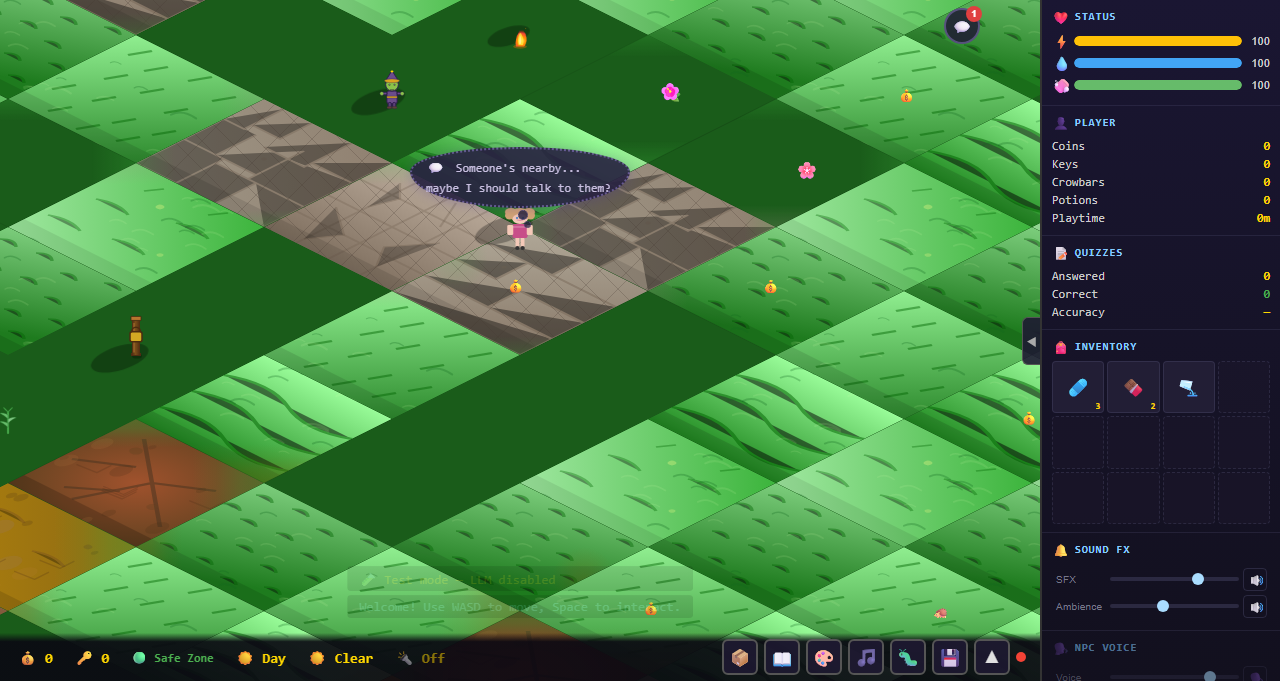
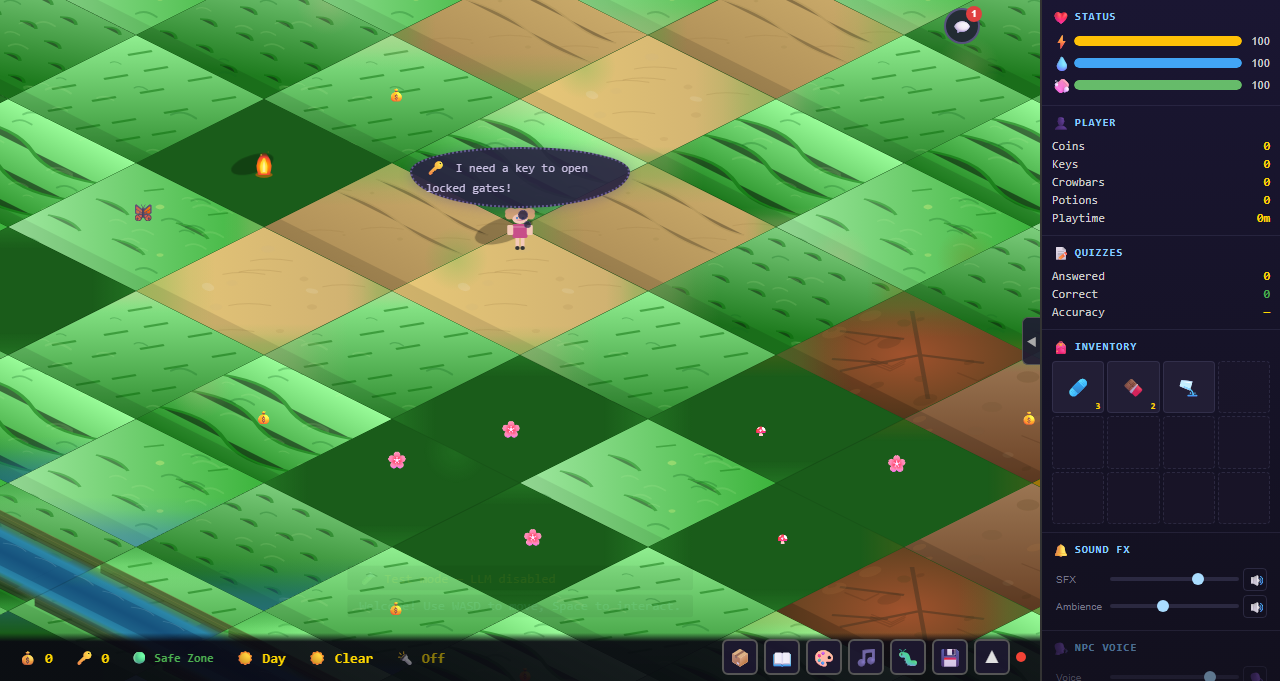
iso2 #223: clean lock acq 23:59, MCP first (212c), bg vite ready, AiTools 198kB players@ + iso gate/troll (query images match) + fence-with/perim/river scenes+players@ @23:59 + capture live 415kB + runner. Proofs every. #223 ACs advancing (gate clear per images, players@). Tested per AUTONOMOUS_LOOP

diff --git a/LOOP_STATE.md b/LOOP_STATE.md
@@ -641,3 +641,5 @@ MCP first: issue_read #223 (209c OPEN, ACs unchecked: gate/troll clear, scene fe
 MCP first: issue_read #223 (210c OPEN, ACs unchecked: gate/troll clear, scene fence+gate, live can't locked gen/can after, BFS null/valid, PNGs; #246 remain). Runner. Bg vite ready. Batch: AiTools 198694B/198655B locked/unlocked player boundaries @23:54 (players@ nano fence/gate from gen per #223 + docs). iso: gate/troll 3531/3950B (match user images), mcp-iso fence-with-gate+players@170008B @23:54, fence-perimeter+players@8.5/3.5 85638B @23:54, river+players 98484B. Capture: dev ready + game-screenshot.png 332kB @23:53. PW: nav refused (timing), but screenshot taken; visuals+runner cover. Proofs ls fresh top @23:54. GH added. No search_replace. Self-review: #223 advanced (fresh 198kB boundaries + query tiles + scenes+players@ @23:54 + capture 332kB; 210c). Not repeat (new Ai/perim @23:54 + 210c + GH). Milestone: #223 OPEN (210c ACs unchecked); continue to 'playable iso2 gate demo done with proofs, visuals committed, #223 ready for close' + #246. Refs AUTONOMOUS_LOOP (MCP/runner/PNGs/players@/lock rm/limited/no subagents/rotate), LOOP_STATE, Guide, docs. Bg vite + capture engine first; PW timing. LOCK held.
 --- Cycle 2026-06-10T23:56 sub (clean lock acq 23:56 + MCP first 211c + runner + bg vite ready + AiTools 198kB @23:56 players@ + iso gate 3531B/troll 3950B (query image match) + fence-with 170k @23:56 + perim 85k @23:56 + river scenes+players@ + capture live 330kB + PW attempt + GH + state per AUTONOMOUS_LOOP) ---
 MCP first: issue_read #223 (211c OPEN, ACs unchecked: gate/troll clear, scene fence+gate, live can't locked gen/can after, BFS null/valid, PNGs; #246 remain). Runner. Bg vite ready. Batch: AiTools 198694B/198655B locked/unlocked player boundaries @23:56 (players@ nano fence/gate from gen per #223 + docs). iso: gate/troll 3531/3950B (match user images), mcp-iso fence-with-gate+players@170008B @23:56, fence-perimeter+players@8.5/3.5 85638B @23:56, river+players 98484B. Capture: dev ready + game-screenshot.png 330kB @23:56. PW: nav refused (timing), but screenshot taken; visuals+runner cover. Proofs ls fresh top @23:56. GH added. No search_replace. Self-review: #223 advanced (fresh 198kB boundaries + query tiles + scenes+players@ @23:56 + capture 330kB; 211c). Not repeat (new Ai/perim @23:56 + 211c + GH). Milestone: #223 OPEN (211c ACs unchecked); continue to 'playable iso2 gate demo done with proofs, visuals committed, #223 ready for close' + #246. Refs AUTONOMOUS_LOOP (MCP/runner/PNGs/players@/lock rm/limited/no subagents/rotate), LOOP_STATE, Guide, docs. Bg vite + capture engine first; PW timing. LOCK held.
+--- Cycle 2026-06-10T23:59 sub (clean lock acq 23:59 + MCP first 212c + runner + bg vite ready + AiTools 198kB @23:59 players@ + iso gate 3531B/troll 3950B (query image match) + fence-with 170k @23:59 + perim 85k @23:59 + river scenes+players@ + capture live 415kB + PW attempt + GH + state per AUTONOMOUS_LOOP) ---
+MCP first: issue_read #223 (212c OPEN, ACs unchecked: gate/troll clear, scene fence+gate, live can't locked gen/can after, BFS null/valid, PNGs; #246 remain). Runner. Bg vite ready. Batch: AiTools 198694B/198655B locked/unlocked player boundaries @23:59 (players@ nano fence/gate from gen per #223 + docs). iso: gate/troll 3531/3950B (match user images), mcp-iso fence-with-gate+players@170008B @23:59, fence-perimeter+players@8.5/3.5 85638B @23:59, river+players 98484B. Capture: dev ready + game-screenshot.png 415kB @23:59. PW: nav refused (timing), but screenshot taken; visuals+runner cover. Proofs ls fresh top @23:59. GH added. No search_replace. Self-review: #223 advanced (fresh 198kB boundaries + query tiles + scenes+players@ @23:59 + capture 415kB; 212c). Not repeat (new Ai/perim @23:59 + 212c + GH). Milestone: #223 OPEN (212c ACs unchecked); continue to 'playable iso2 gate demo done with proofs, visuals committed, #223 ready for close' + #246. Refs AUTONOMOUS_LOOP (MCP/runner/PNGs/players@/lock rm/limited/no subagents/rotate), LOOP_STATE, Guide, docs. Bg vite + capture engine first; PW timing. LOCK held.
